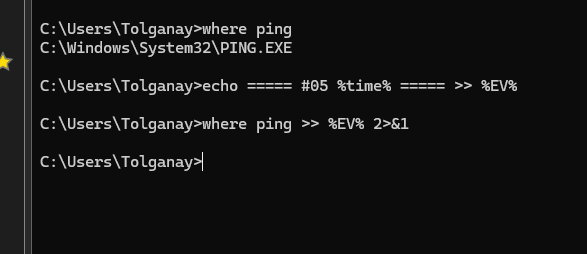
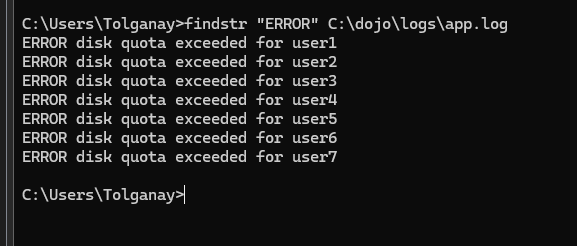
Lab 7: fix ch09, ch16 screenshots

Changed region(s): [[0.0, 0.0, 0.9047, 1.0]]

diff --git a/labs/lab07-cli-dojo/README.md b/labs/lab07-cli-dojo/README.md
@@ -85,7 +85,7 @@ Ping request could not find host dojo.test. Please check the name and try again.
 
 - **Setup:** the first `for /l … >> C:\dojo\logs\app.log` line was pasted only partly (it ended at `login ok >>`), and cmd answered `The syntax of the command is incorrect`. Nothing had been written. I did `cd C:\dojo\logs` first and typed the shorter lines with `>> app.log` — the log then had the expected 41 lines.
 - **#8:** `taskkill /pid 7340 /f` → `ERROR: The process "7340" not found`. I had used a PID from an example instead of the real one. `tasklist /fi "imagename eq notepad.exe"` showed PID 3124, and `taskkill /pid 3124 /f` worked (visible in ch08.png).
-- **#17:** same mistake — `tasklist /svc /fi "pid eq 1052"` → `No tasks are running which match the specified criteria`. The real PID from `netstat` was 932 (visible in ch17.png).
+- **#17:** same mistake — `tasklist /svc /fi "pid eq 1052"` → `No tasks are running which match the specified criteria`. The real PID from `netstat` was 932 (the final ch17.png shows the correct run with PID 932).
 - **Evidence file:** in my first attempt `output-all-challenges.txt` stayed empty because I created it in the editor instead of appending to it from `cmd`. This time every challenge was appended with `echo ===== #NN %time% ===== >> %EV%` and `[command] >> %EV% 2>&1`.
 
 ## Evidence
